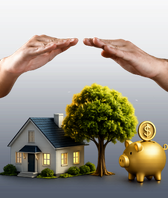
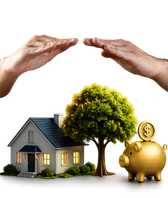
animacion pt2

diff --git a/app/funnel-step-one.tsx b/app/funnel-step-one.tsx
@@ -1,8 +1,9 @@
 "use client";
 
-import { useEffect, useState } from "react";
+import { useState } from "react";
 import Image from "next/image";
 import Link from "next/link";
+import retirementIllustration from "../public/media/imagen-ilustrativa-transparent.png";
 
 const retirementGoals = [
   {
@@ -29,21 +30,13 @@ const slotValues = Array.from({ length: 61 }, (_, index) => {
   return Math.round(20000 + 82000 * progress + irregularOffset);
 });
 
-const MAX_REEL_ADVANCE = slotValues.length * 10 + 100;
-
-const digitReel = Array.from({ length: MAX_REEL_ADVANCE }, (_, index) =>
-  String(index % 10),
-);
-
 function getSlotDigits(value: number) {
   return value.toString().padStart(6, " ").split("");
 }
 
-function getInitialReelPositions(value: number) {
-  return getSlotDigits(value).map((digit) =>
-    digit === " " ? 10 : Number(digit) + 10,
-  );
-}
+const slotReels = Array.from({ length: 6 }, (_, digitIndex) =>
+  slotValues.map((value) => getSlotDigits(value)[digitIndex]),
+);
 
 type FunnelStepOneProps = {
   phoneDisplay: string;
@@ -55,52 +48,6 @@ export default function FunnelStepOne({
   phoneHref,
 }: FunnelStepOneProps) {
   const [selectedGoal, setSelectedGoal] = useState<string | null>(null);
-  const [slotValue, setSlotValue] = useState(slotValues[0]);
-  const [reelPositions, setReelPositions] = useState<(number | null)[]>(() =>
-    getInitialReelPositions(slotValues[0]),
-  );
-
-  useEffect(() => {
-    if (window.matchMedia("(prefers-reduced-motion: reduce)").matches) {
-      const reducedMotionTimer = window.setTimeout(() => {
-        const finalValue = slotValues.at(-1) ?? 102000;
-        setSlotValue(finalValue);
-        setReelPositions(getInitialReelPositions(finalValue));
-      }, 0);
-
-      return () => window.clearTimeout(reducedMotionTimer);
-    }
-
-    const timers = slotValues.slice(1).map((value, index) =>
-      window.setTimeout(
-        () => {
-          setSlotValue(value);
-          setReelPositions((currentPositions) =>
-            getSlotDigits(value).map((digit, digitIndex) => {
-              if (digit === " ") {
-                return null;
-              }
-
-              const targetDigit = Number(digit);
-              const currentPosition = currentPositions[digitIndex];
-
-              if (currentPosition === null || digit === " ") {
-                return targetDigit + 10;
-              }
-
-              const currentDigit = currentPosition % 10;
-              const distance = (targetDigit - currentDigit + 10) % 10;
-
-              return currentPosition + (distance || 10);
-            }),
-          );
-        },
-        ((index + 1) * 6000) / (slotValues.length - 1),
-      ),
-    );
-
-    return () => timers.forEach(window.clearTimeout);
-  }, []);
 
   function selectGoal(goal: (typeof retirementGoals)[number]) {
     setSelectedGoal(goal.id);
@@ -150,11 +97,9 @@ export default function FunnelStepOne({
               <Image
                 alt="Casa, árbol y alcancía protegidos por unas manos"
                 className="retirement-image"
-                height={198}
                 priority
                 sizes="(max-width: 519px) 36vw, 160px"
-                src="/media/imagen-ilustrativa-transparent.png"
-                width={168}
+                src={retirementIllustration}
               />
             </div>
 
@@ -179,22 +124,14 @@ export default function FunnelStepOne({
             <span className="price-odometer" aria-hidden="true">
               <span className="currency">$</span>
               <span className="odometer-digits">
-                {getSlotDigits(slotValue).map((digit, index) => (
+                {slotReels.map((reel, index) => (
                   <span className="odometer-group" key={index}>
                     <span className="odometer-column">
-                      {digit === " " ? null : (
-                        <span
-                          className="odometer-reel"
-                          style={{
-                            transform: `translateY(-${(reelPositions[index] ?? 0) * 30}px)`,
-                            transitionDuration: `${62 + index * 4}ms`,
-                          }}
-                        >
-                          {digitReel.map((reelDigit, reelIndex) => (
-                            <span key={reelIndex}>{reelDigit}</span>
-                          ))}
-                        </span>
-                      )}
+                      <span className="odometer-reel">
+                        {reel.map((reelDigit, reelIndex) => (
+                          <span key={reelIndex}>{reelDigit}</span>
+                        ))}
+                      </span>
                     </span>
                     {index === 2 ? (
                       <span className="odometer-separator">,</span>

diff --git a/app/globals.css b/app/globals.css
@@ -190,11 +190,8 @@ a {
 
 .retirement-image {
   display: block;
-  width: auto;
-  height: 132px;
-  max-width: 100%;
-  object-fit: contain;
-  object-position: center;
+  width: min(118%, 176px);
+  height: auto;
   filter: drop-shadow(0 8px 10px rgb(0 0 0 / 20%));
 }
 
@@ -362,8 +359,7 @@ a {
   left: 0;
   display: flex;
   flex-direction: column;
-  transition-property: transform;
-  transition-timing-function: cubic-bezier(0.2, 0.75, 0.25, 1);
+  animation: spin-slot 2s steps(60, end) both;
   will-change: transform;
 }
 
@@ -375,6 +371,16 @@ a {
   font-size: 23px;
   font-weight: 900;
   line-height: 1;
+}
+
+@keyframes spin-slot {
+  from {
+    transform: translateY(0);
+  }
+
+  to {
+    transform: translateY(-1800px);
+  }
 }
 
 .odometer-separator {
@@ -655,9 +661,8 @@ a {
   }
 
   .retirement-image {
-    width: auto;
-    height: 116px;
-    max-width: 100%;
+    width: min(116%, 160px);
+    height: auto;
   }
 
   .hero-kicker {
@@ -770,9 +775,8 @@ a {
   }
 
   .retirement-image {
-    width: auto;
-    height: 92px;
-    max-width: 100%;
+    width: min(112%, 136px);
+    height: auto;
   }
 
   .hero-copy-block h1 {
@@ -866,6 +870,7 @@ a {
   }
 
   .odometer-reel {
-    transition: none !important;
+    animation: none;
+    transform: translateY(-1800px);
   }
 }